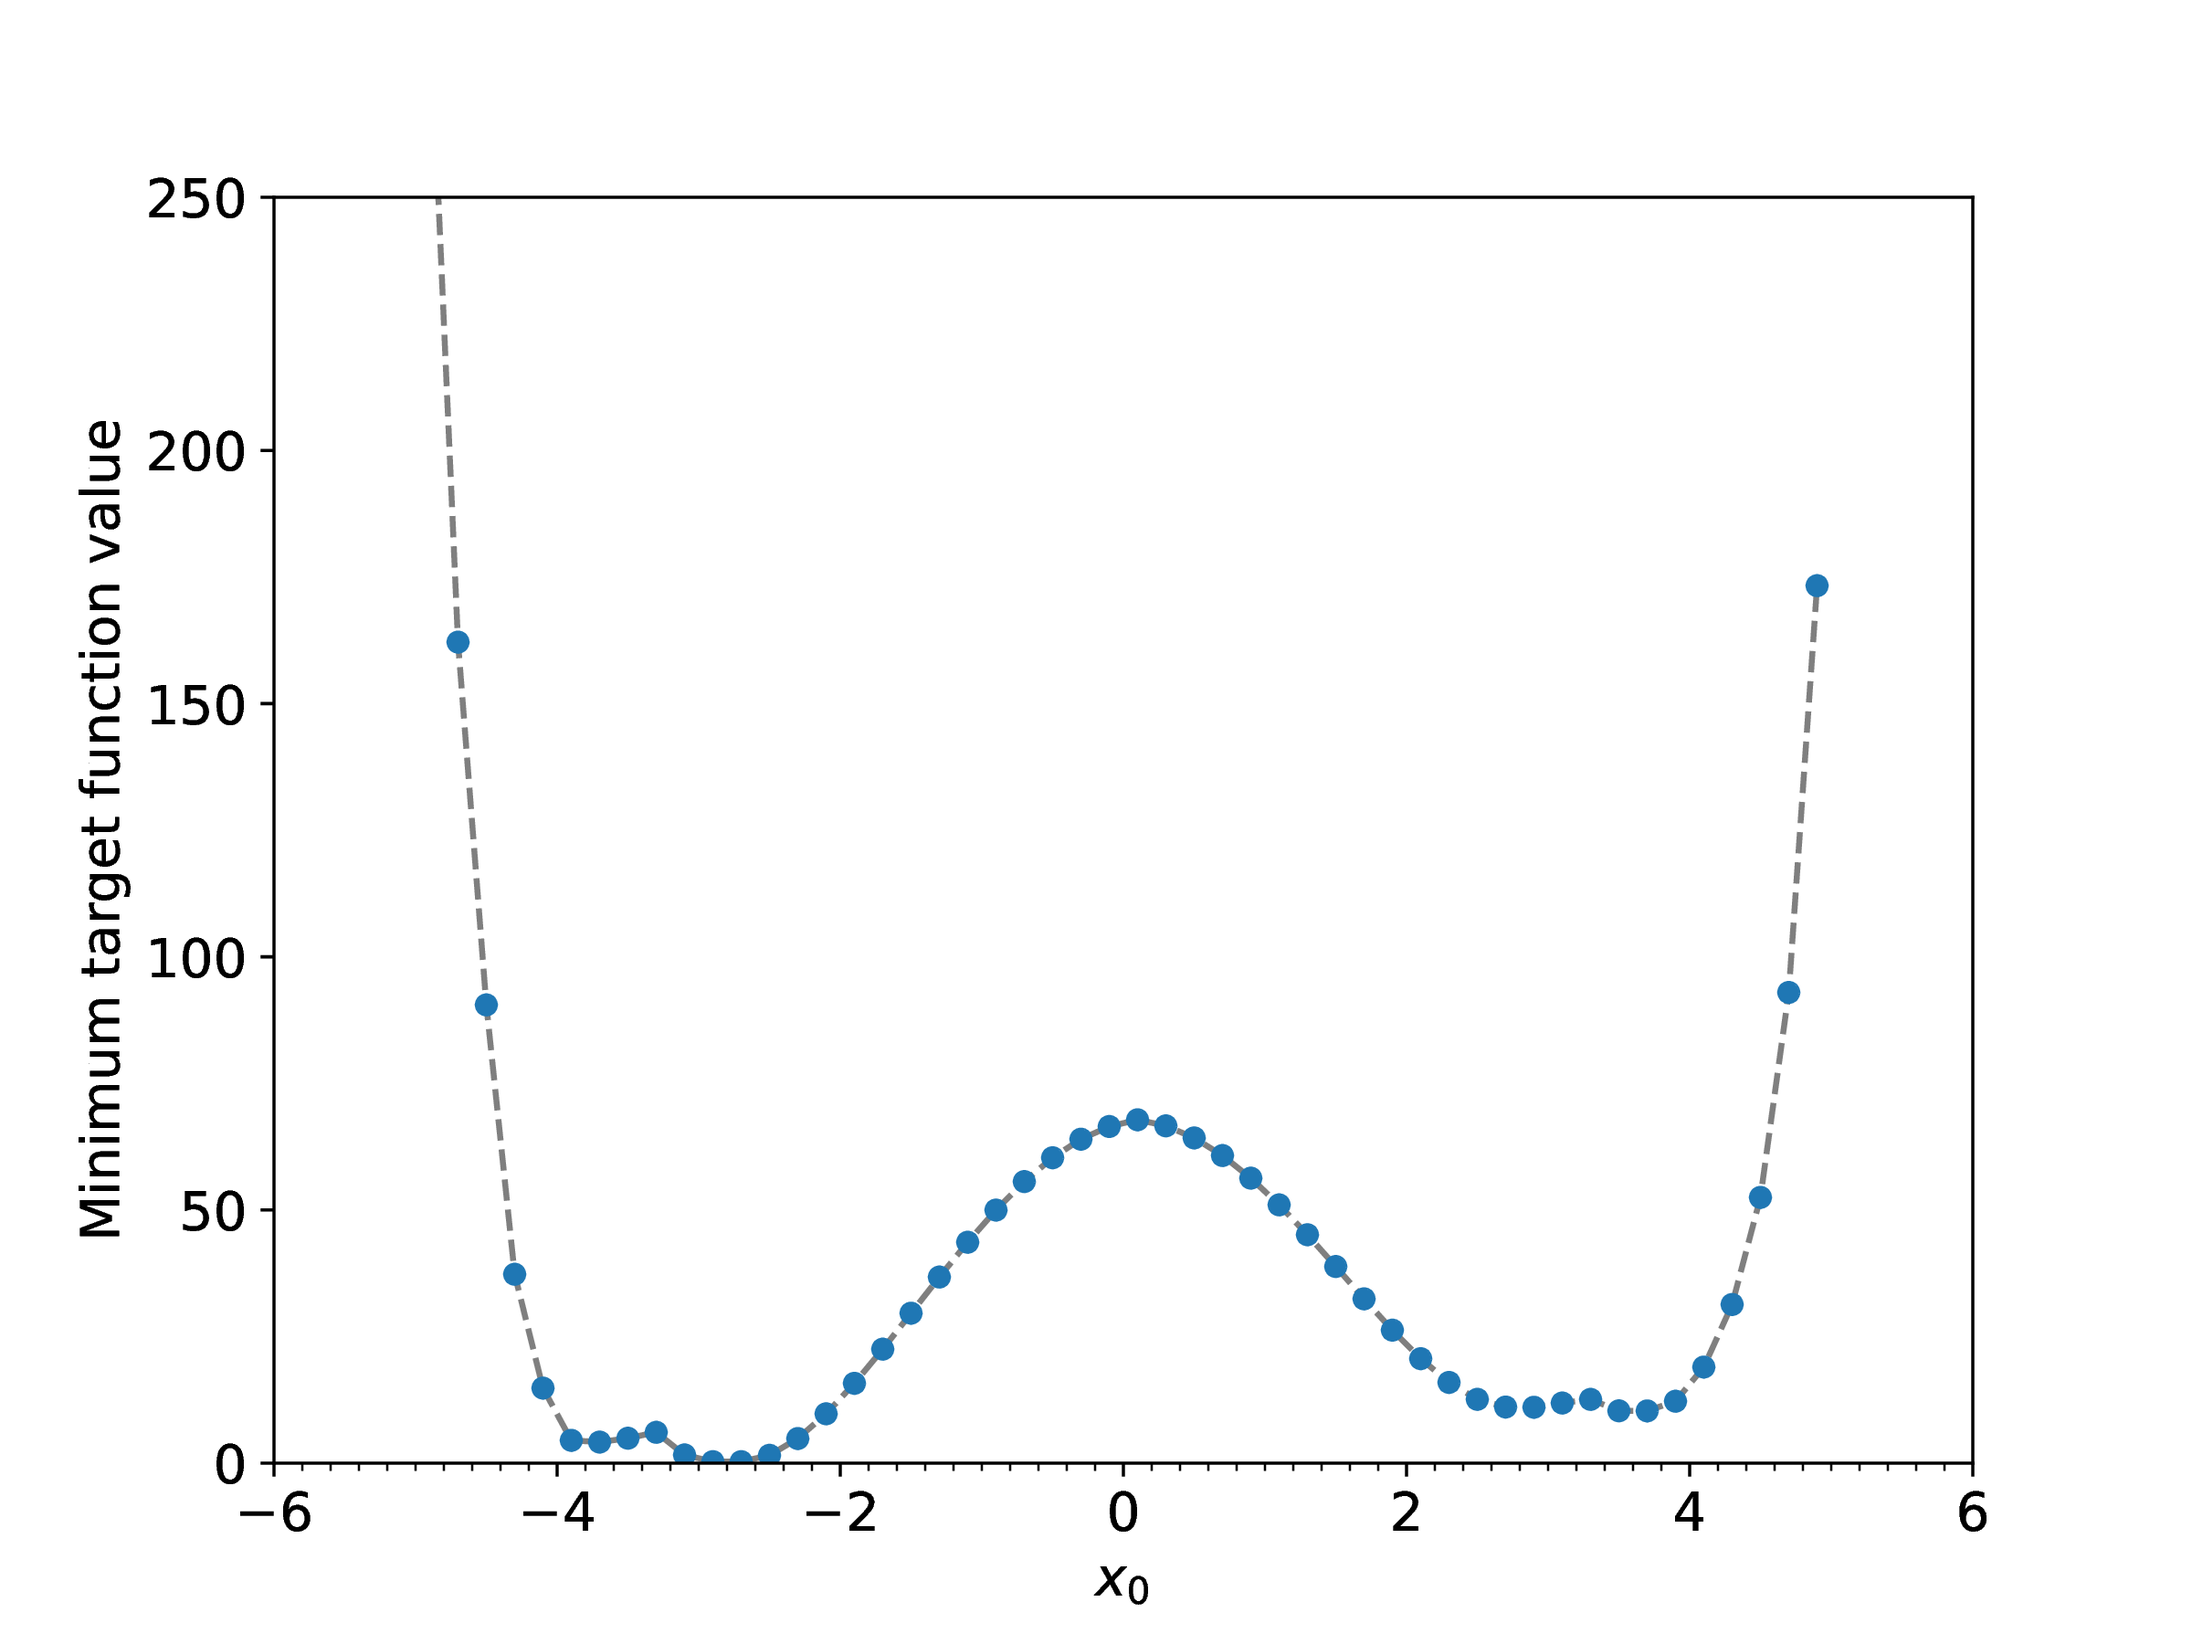
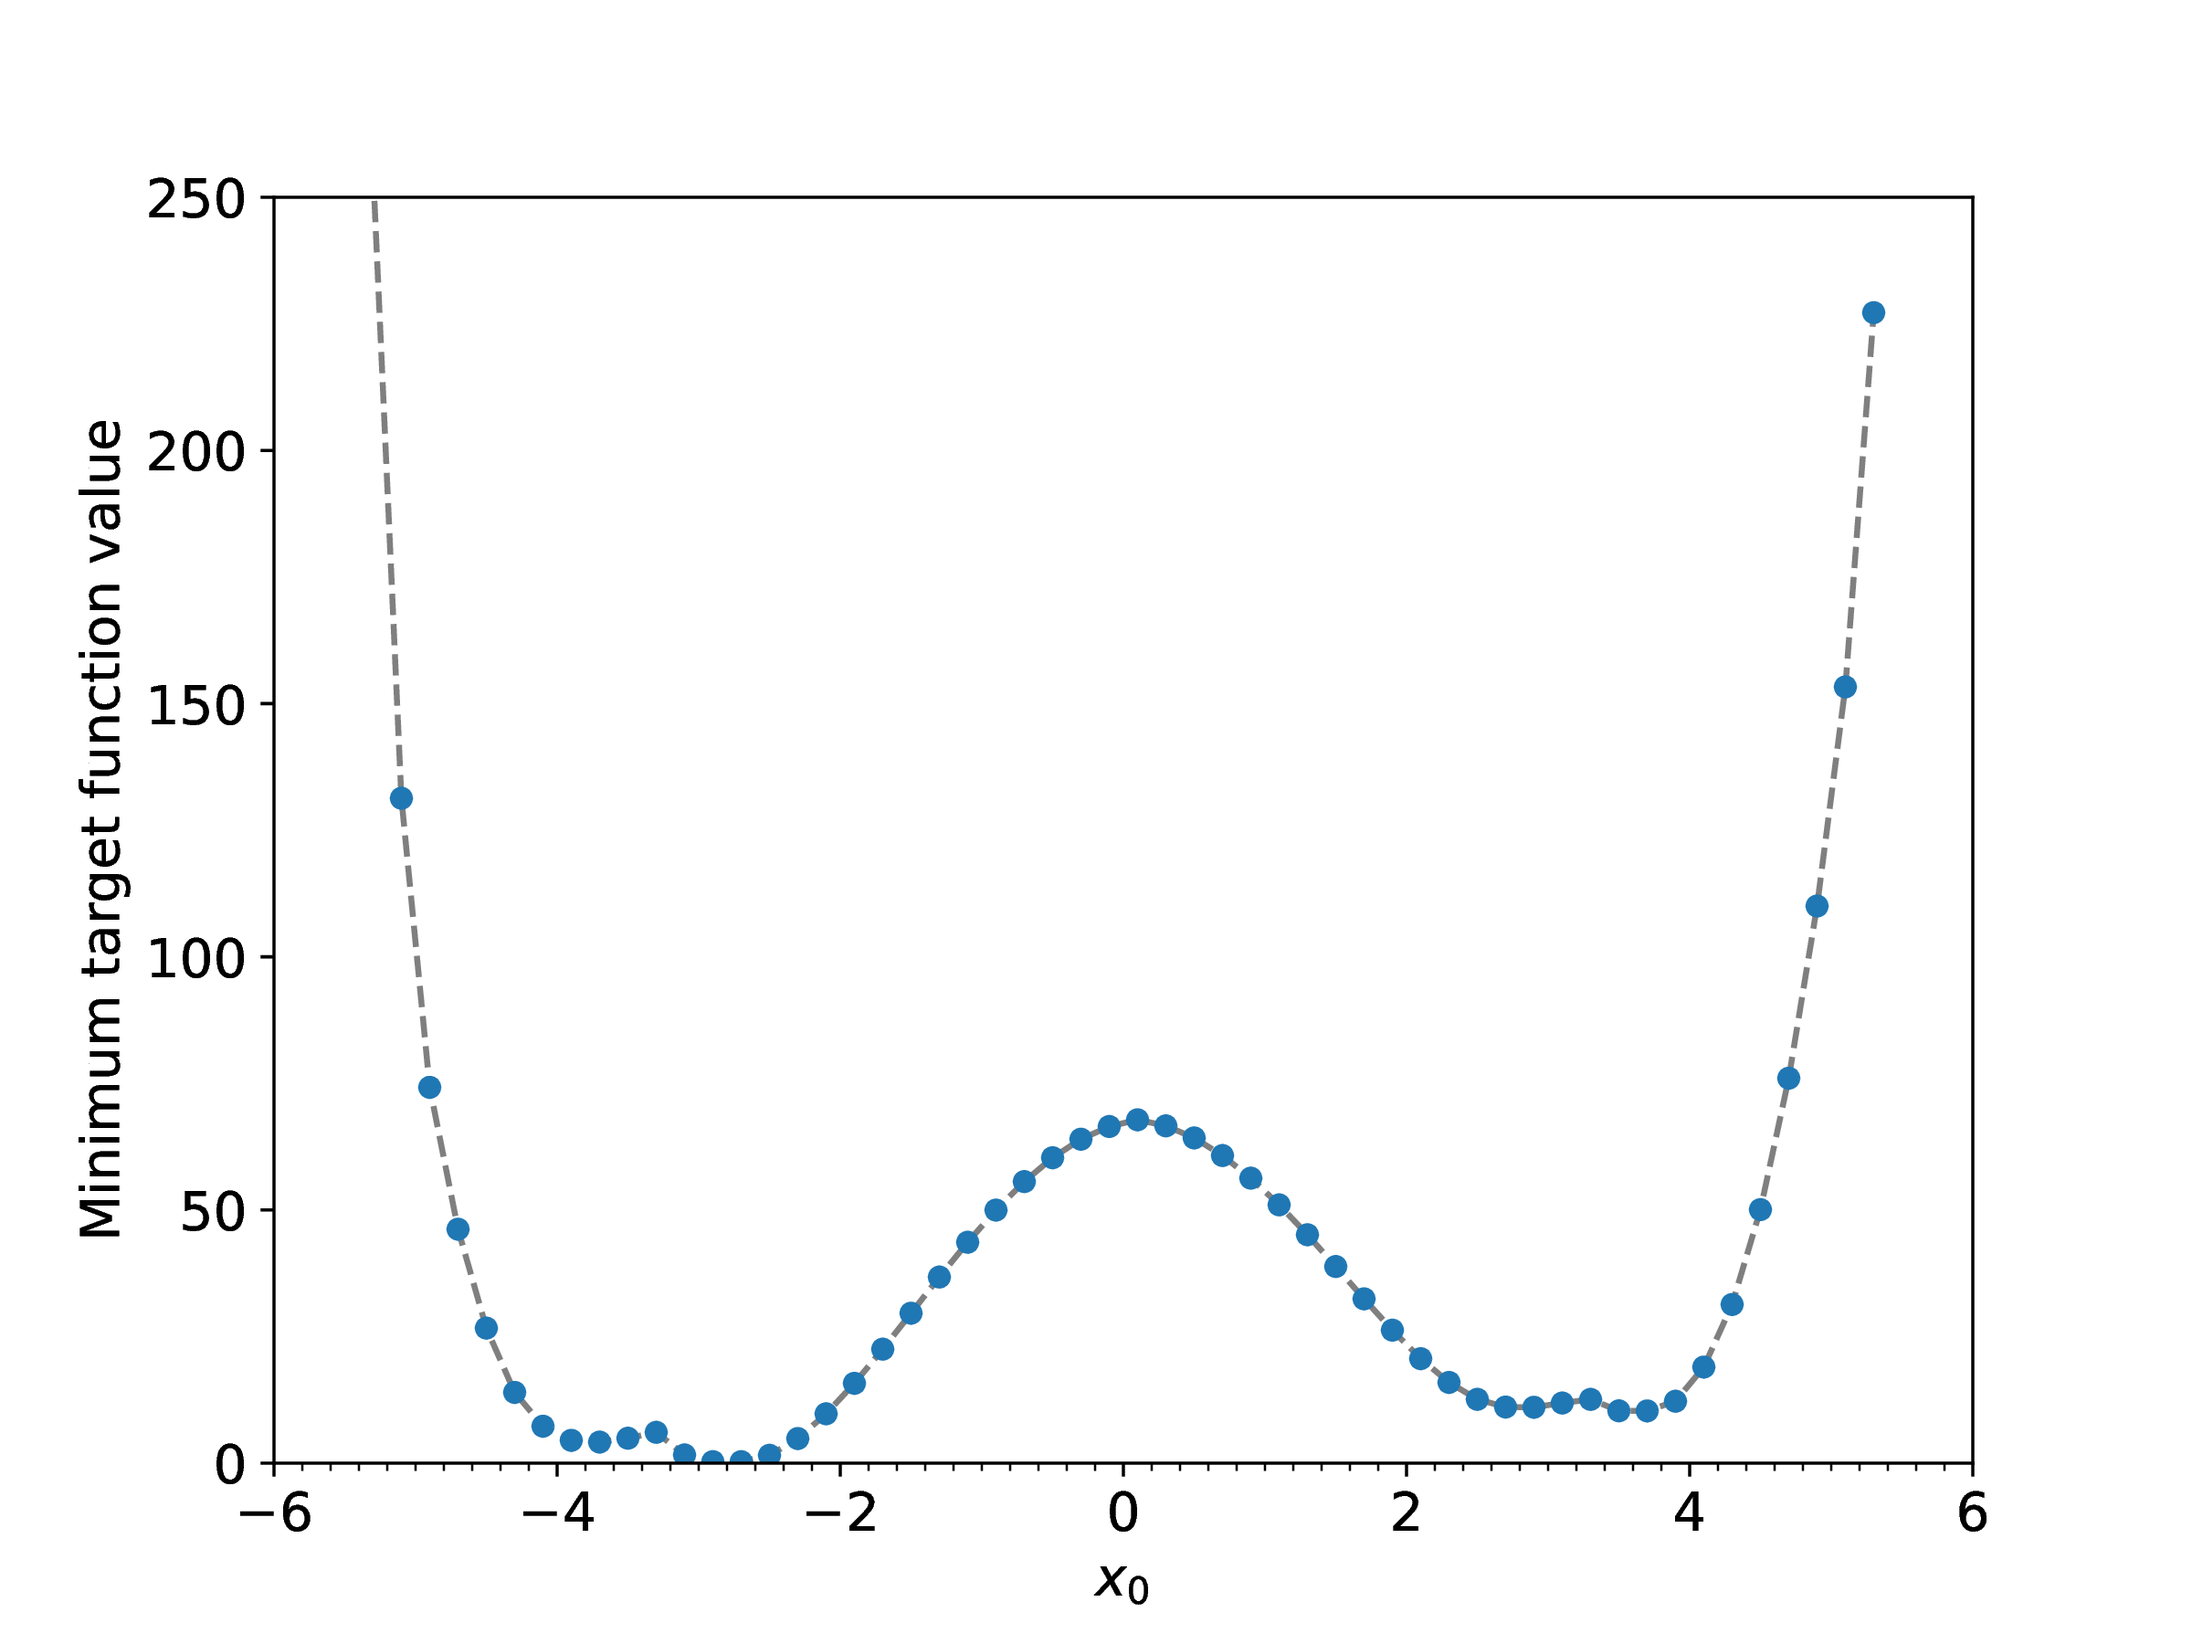
Updated the example with a more interesting maskin function. Also updated the README and the example plots.

diff --git a/example.py b/example.py
@@ -20,8 +20,12 @@ if __name__ == "__main__":
 
     # Example function for masking some bins
     def bin_masking(bin_centre, bin_edges):
-        r2 = bin_centre[0]**2 + bin_centre[1]**2
-        if r2 > 25.0:
+        x0 = bin_centre[0]
+        x1 = bin_centre[1]
+        ellipse_1 = ((x0 - 0.0) / 4)**2 + ((x1 - 3.0) / 2)**2
+        ellipse_2 = ((x0 + 3.5) / 2)**2 + ((x1 - 0.0) / 5)**2
+        ellipse_3 = ((x0 - 3.5) / 2)**2 + ((x1 - 0.0) / 4)**2
+        if (ellipse_1 > 1) and (ellipse_2 > 1) and (ellipse_3 > 1):
             return False
         return True
 
@@ -37,7 +41,7 @@ if __name__ == "__main__":
         optima_comparison_atol=1e-4,
         parallelization="mpp",
         max_processes=4,
-        # bin_masking=bin_masking,  # <- Activate to use the bin_masking function
+        bin_masking=bin_masking,  # <- Activate to use the bin_masking function
         method="L-BFGS-B",
         tol=1e-9,
     )

diff --git a/README.md b/README.md
@@ -82,7 +82,7 @@ Connecting a new optimizer to binminpy is easy:
 
 ## Example with plotting
 
-In `example.py` binminpy is used to perform binned minimization of a 3D variant of the Himmelblau function. The input space is binned using 60x60x5 bins. 
+In `example.py` binminpy is used to perform binned minimization of a 3D version of the Himmelblau function. The input space is binned using 60x60x5 bins. 
 The output from binminpy is then used to make 1D and 2D plots showing the minimum function value for each given 1D/2D bin. 
 The binminpy run is parallelized using `multiprocessing.Pool`. If you run this example you should get three plots looking like this:
   
@@ -95,8 +95,12 @@ For instance, when using the following masking function
 
 ```Python
 def bin_masking(bin_centre, bin_edges):
-    r2 = bin_centre[0]**2 + bin_centre[1]**2
-    if r2 > 25.:
+    x0 = bin_centre[0]
+    x1 = bin_centre[1]
+    ellipse_1 = ((x0 - 0.0) / 4)**2 + ((x1 - 3.0) / 2)**2
+    ellipse_2 = ((x0 + 3.5) / 2)**2 + ((x1 - 0.0) / 5)**2
+    ellipse_3 = ((x0 - 3.5) / 2)**2 + ((x1 - 0.0) / 4)**2
+    if (ellipse_1 > 1) and (ellipse_2 > 1) and (ellipse_3 > 1):
         return False
     return True
 ```
